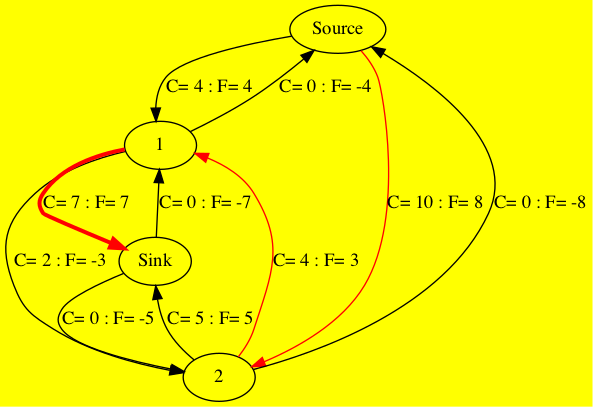
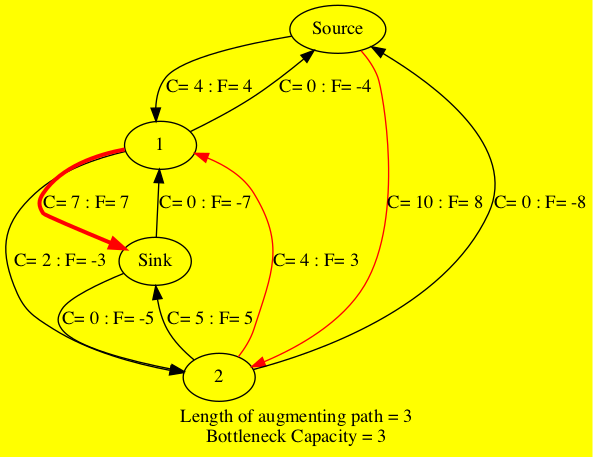
added label in graph showing bottleneck, lenPath

diff --git a/pythons/Edmond_Karp.py b/pythons/Edmond_Karp.py
@@ -7,7 +7,7 @@ import image_Load
 def max_flow(C, s, t):
         n = len(C) # C is the capacity matrix
         F = [[0] * n for i in range(n)]
-        Edmond_Karp_Flow.makeGraph(C, F, [], s, t)
+        Edmond_Karp_Flow.makeGraph(C, F, [], s, t, 0)
         Edmond_Karp_Residual.makeGraph(C, F, s, t)
         image_Load.loadimg()
         path = bfs(C, F, s, t)
@@ -16,7 +16,7 @@ def max_flow(C, s, t):
             for u,v in path:
                 F[u][v] += flow
                 F[v][u] -= flow
-            Edmond_Karp_Flow.makeGraph(C, F, path, s, t)
+            Edmond_Karp_Flow.makeGraph(C, F, path, s, t, flow)
             Edmond_Karp_Residual.makeGraph(C, F, s, t)
             image_Load.loadimg()
             path = bfs(C, F, s, t)

diff --git a/pythons/Edmond_Karp_Flow.py b/pythons/Edmond_Karp_Flow.py
@@ -3,9 +3,14 @@ import pydot
 import tkinter as Tkinter
 from PIL import Image, ImageTk
 
-def makeGraph(C, F, path, s, t):
+def makeGraph(C, F, path, s, t, flow):
     n = len(C)  
-    graph = pydot.Dot("my_graph", graph_type="digraph", bgcolor="yellow")
+    if path != []:
+        # flow = min(C[u][v]-F[u][v] for u,v in path)
+        stringg="Length of augmenting path = "+str(len(path))+"\nBottleneck Capacity = "+str(flow)
+        graph = pydot.Dot("my_graph", graph_type="digraph", bgcolor="yellow", label=stringg)
+    else:
+        graph = pydot.Dot("my_graph", graph_type="digraph", bgcolor="yellow")
 
     # Add nodes
     for i in range(n):

diff --git a/pythons/Edmond_Karp_Residual.py b/pythons/Edmond_Karp_Residual.py
@@ -1,3 +1,4 @@
+from cProfile import label
 import pydot
 
 import tkinter as Tkinter
